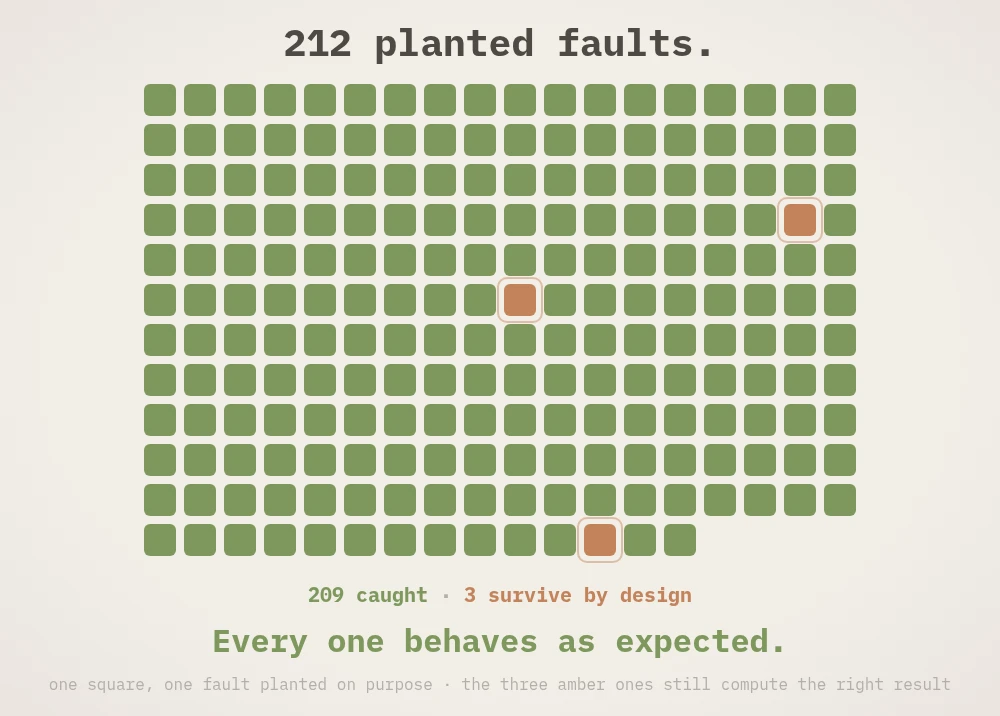
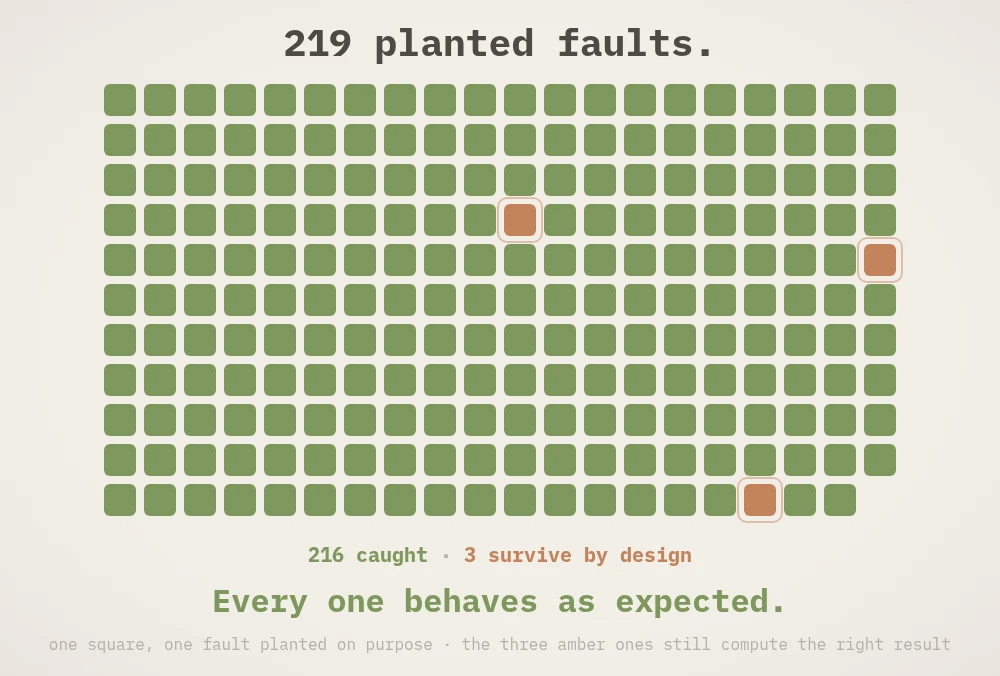
README: 219 planted faults, 216 caught and 3 by design, the chart redrawn

diff --git a/README.md b/README.md
@@ -7,7 +7,7 @@
   <a href="LICENSE"><img src="https://img.shields.io/badge/license-MIT-8b83b5?style=flat-square&labelColor=4d4a44" alt="MIT license"></a>
   <a href="https://bend-lang.com"><img src="https://img.shields.io/badge/Bend-2.0.40-8b83b5?style=flat-square&labelColor=4d4a44" alt="Bend 2.0.40"></a>
   <img src="https://img.shields.io/badge/laws%20proved-46-7e9a5e?style=flat-square&labelColor=4d4a44" alt="46 laws proved">
-  <img src="https://img.shields.io/badge/planted%20bugs-212%2F212%20as%20expected-7e9a5e?style=flat-square&labelColor=4d4a44" alt="212 planted bugs, 212 as expected">
+  <img src="https://img.shields.io/badge/planted%20bugs-219%2F219%20as%20expected-7e9a5e?style=flat-square&labelColor=4d4a44" alt="219 planted bugs, 219 as expected">
 </p>
 
 **BendTorch** trains neural networks in [Bend 2](https://bend-lang.com) with general pieces: layers with typed forward
@@ -88,13 +88,13 @@ them again with Bend's kernel proved in Lean, with no `@unsafe`, no `?TODO` and 
 explains each proof. The linear laws are about an exact model where numbers are `Nat`; the F32 code computes the same
 formulas and is tested, not proved, to do so.
 
-212 deliberate faults planted in the code and the specification (`scripts/mutate.py`) each behave as expected: 209
+219 deliberate faults planted in the code and the specification (`scripts/mutate.py`) each behave as expected: 216
 are caught by a law or a test, and three survive by design, because they still compute the right result. One is right
 by accident (a one-cell array wraps every index to 0), and a bounds check catches the same fault; one only changes a
 GPU block size, and any block size that divides a row gives the same sum, bit for bit: the law `block_sum` proves it;
 the third lets packed AdamW write past n into cells that hold zeros and stay zero.
 
-<p align="center"><img src="docs/media/mutants.webp" alt="212 planted faults: 209 caught, 3 survive by design" width="80%"></p>
+<p align="center"><img src="docs/media/mutants.webp" alt="219 planted faults: 216 caught, 3 survive by design" width="80%"></p>
 
 ## 03 · It trains, and it computes what PyTorch computes
 
@@ -216,7 +216,7 @@ Linux x86_64, clang, Python 3.14, `curl`. The Python venv with PyTorch takes abo
 make setup   # Bend 2.0.40 (SHA256-checked), Lean 4.34.0, the Python venv of reference/; no sudo
 make data    # MNIST and Tiny Shakespeare into data/, the twins' initial weights and batches (seed 0)
 make check   # the laws (--verdict), the rejected programs, every layer, the MLP, MNIST, the Llama and a SmolLM2-sized block against PyTorch (~2 min)
-make mutate  # the 212 deliberate faults
+make mutate  # the 219 deliberate faults
 make bench   # BendTorch against PyTorch on MNIST, the tiny Llama and the block (~6 min)
 make check-js  # the same tests on the JavaScript build, run with Bun; the outputs must be the native build's bits
 ```
